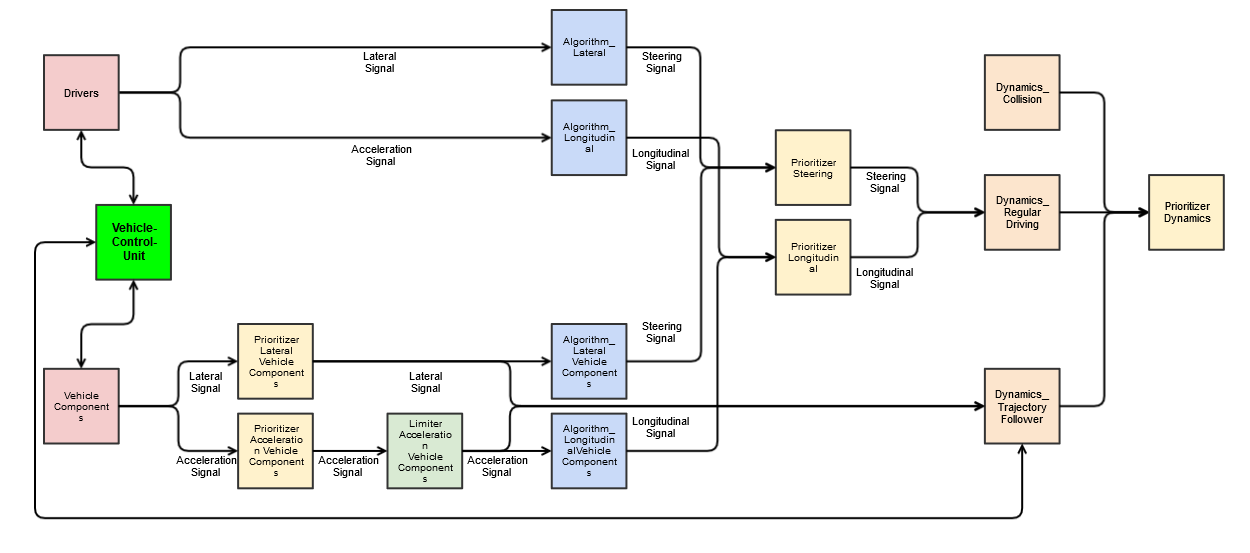
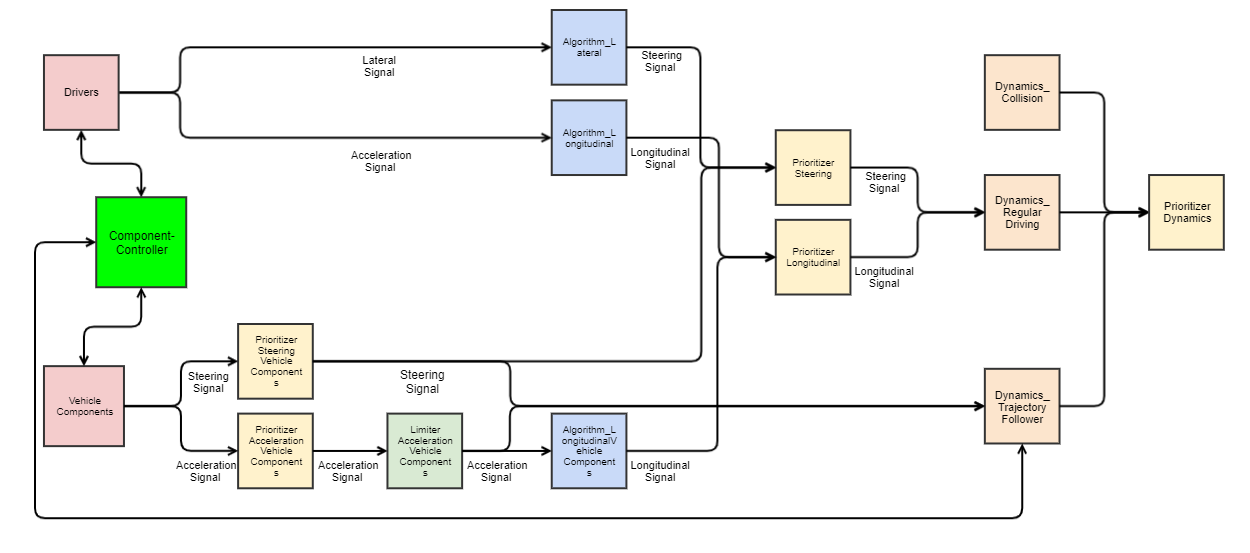
feat(LateralSignal): Removed LateralSignal for all vehicle components and replaced it by SteeringSignal

diff --git a/OpenPass_Source_Code/openPASS/Components/Dynamics_TF/tfImplementation.cpp b/OpenPass_Source_Code/openPASS/Components/Dynamics_TF/tfImplementation.cpp
@@ -90,14 +90,13 @@ void TrajectoryFollowerImplementation::UpdateInput(int localLinkId, const std::s
                 std::dynamic_pointer_cast<ComponentStateSignalInterface const>(data);
             if (stateSignal != nullptr && stateSignal->componentState == ComponentState::Acting)
             {
-                const std::shared_ptr<LateralSignal const> signal = std::dynamic_pointer_cast<LateralSignal const>(data);
+                const std::shared_ptr<SteeringSignal const> signal = std::dynamic_pointer_cast<SteeringSignal const>(data);
                 if (!signal)
                 {
                     ThrowInvalidSignalTypeError();
                 }
 
-                const bool isLateralSignalActing = signal->componentState == ComponentState::Acting;
-                if (isLateralSignalActing)
+                if (signal->componentState == ComponentState::Acting)
                 {
                     UpdateState(ComponentState::Disabled);
                 }

diff --git a/OpenPass_Source_Code/openPASS/Components/Dynamics_TF/tfImplementation.h b/OpenPass_Source_Code/openPASS/Components/Dynamics_TF/tfImplementation.h
@@ -28,7 +28,7 @@
 * Input channel IDs:
 * | Input ID   | signal class              | contained variables               |
 * |------------|---------------------------|-----------------------------------|
-* | 0          | LateralSignal             | componentState                    |
+* | 0          | SteeringSignal            | componentState                    |
 * | 1          | AccelerationSignal        | inputAcceleration, componentState |
 * | 2          | TrajectorySignal          | trajectory                        |
 *
@@ -57,7 +57,7 @@
 #include "Common/accelerationSignal.h"
 #include "Common/dynamicsSignal.h"
 #include "Common/globalDefinitions.h"
-#include "Common/lateralSignal.h"
+#include "Common/steeringSignal.h"
 #include "Common/openScenarioDefinitions.h"
 #include "Common/vector2d.h"
 #include "Interfaces/eventNetworkInterface.h"

diff --git a/OpenPass_Source_Code/openPASS/CoreFramework/OpenPassSlave/framework/dynamicAgentTypeGenerator.h b/OpenPass_Source_Code/openPASS/CoreFramework/OpenPassSlave/framework/dynamicAgentTypeGenerator.h
@@ -49,10 +49,9 @@ struct DefaultComponents
     //Components that are needed, if at least one vehicle component is present
     const std::vector<std::string> vehicleComponentNames
     {
-        "Algorithm_LateralVehicleComponents",
         "Algorithm_LongitudinalVehicleComponents",
         "PrioritizerAccelerationVehicleComponents",
-        "PrioritizerLateralVehicleComponents",
+        "PrioritizerSteeringVehicleComponents",
         "LimiterAccelerationVehicleComponents"
     };
 };

diff --git a/DoxyGen/Function/Markdown/Simulation/Input_Output/Input_Output.md b/DoxyGen/Function/Markdown/Simulation/Input_Output/Input_Output.md
@@ -103,10 +103,9 @@ The table below can be used as orientation when a new module is introduced.
 | PrioritizerLaterDriver | SignalPrioritizer | 150 | Prioritizer | - |
 | PrioritizerAccelerationDriver | SignalPrioritizer | 150 | Prioritizer | - |
 | PrioritizerTurningIndicator | SignalPrioritizer | 150 | Prioritizer | - |
-| PrioritizerLateralVehicleComponents | SignalPrioritizer | 150 | Prioritizer | - |
+| PrioritizerSteeringVehicleComponents | SignalPrioritizer | 150 | Prioritizer | - |
 | PrioritizerAccelerationVehicleComponents | SignalPrioritizer | 150 | Prioritizer | - |
 | LimiterAccelerationVehicleComponents | LimiterAccelerationVehicleComponents | 120 | VehicleDynamicsControllers | - |
-| AlgorithmLateralVehicleComponents | AlgorithmLateralVehicleComponents | 100 | VehicleDynamicsControllers | - |
 | AlgorithmLateralDriver | AlgorithmLateralDriver | 100 | VehicleDynamicsControllers | - |
 | AlgorithmLongitudinalVehicleComponents | AlgorithmLongitudinalVehicleComponents | 100 | VehicleDynamicsControllers | - |
 | AlgorithmLongitudinalDriver | AlgorithmLongitudinalDriver | 100 | VehicleDynamicsControllers | - |
@@ -171,7 +170,7 @@ With corresponding defined indices :
 | PrioritizerLongitudinal                   | Algorithm         | 21 | 
 | PrioritizerSteering                       | Algorithm         | 22 | 
 | PrioritizerAccelerationVehicleComponents  | Algorithm         | 23 | 
-| PrioritizerLateralVehicleComponents       | Algorithm         | 24 | 
+| PrioritizerSteeringVehicleComponents      | Algorithm         | 24 | 
 | Action_LongitudinalDriver                 | DriverTasks       | 31 | 
 | Action_SecondaryDriverTasks               | DriverTasks       | 32 | 
 | PrioritizerTurningIndicator               | DriverTasks       | 33 | 

diff --git a/DoxyGen/Function/Markdown/Simulation/Development/AgentModules.md b/DoxyGen/Function/Markdown/Simulation/Development/AgentModules.md
@@ -515,8 +515,7 @@ on the configuration of the CC.
 
 The CC communicates with the controlled components via framework signals. An overview of the connections and signal flow is shown below.
 
-![Vehicle components signal flow](ComponentController_Signals.svg)
-
+![Vehicle components signal flow](DynamicsModules.png)
 
 Inputs to the ComponentController:
 
